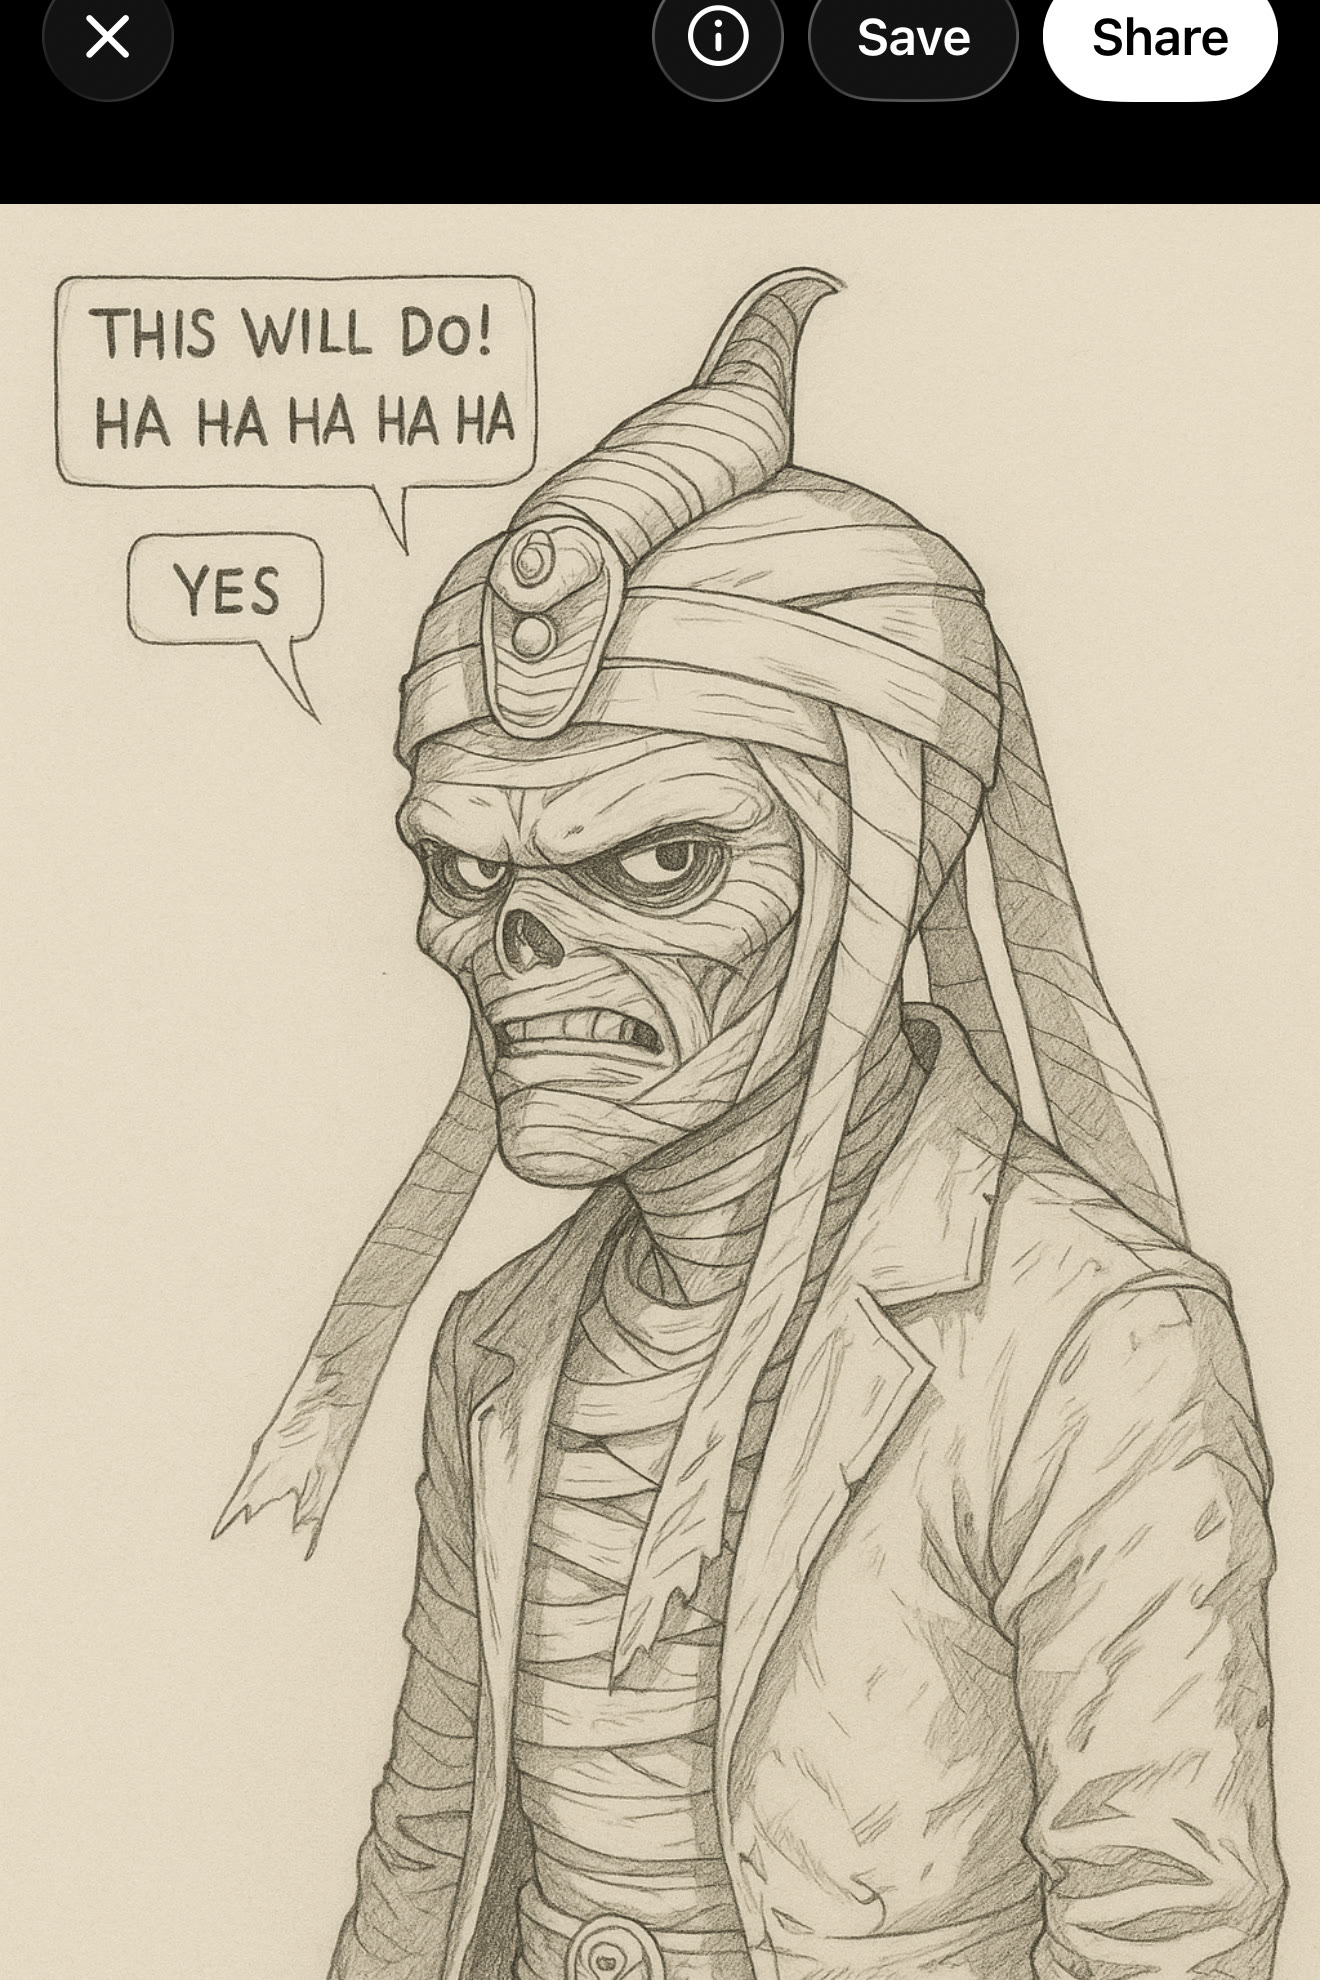
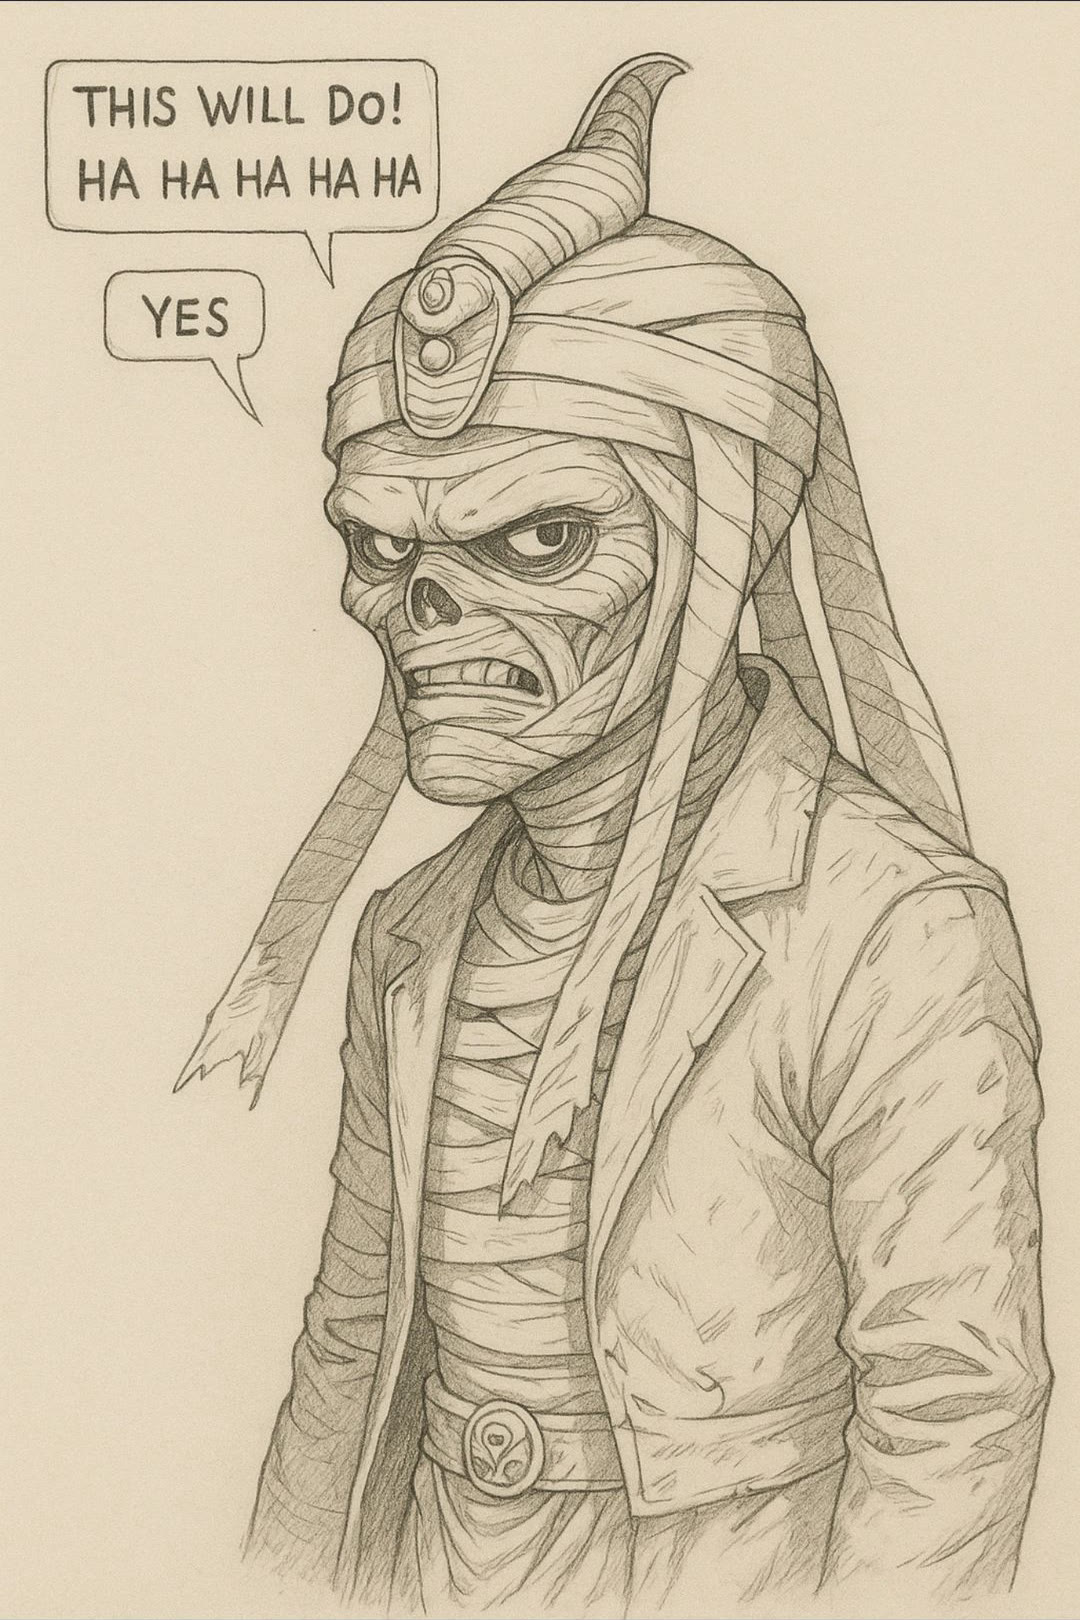
Crop This Will Do V to the same paper frame as the rest of the series.

diff --git a/art.html b/art.html
@@ -145,7 +145,7 @@
           </figure>
           <figure class="piece" data-full="assets/exhibit/this-will-do-v.jpg">
             <button type="button" class="piece-open" aria-label="Open This Will Do V, full screen">
-              <img src="assets/exhibit/this-will-do-v.jpg" width="1320" height="1980" alt="">
+              <img src="assets/exhibit/this-will-do-v.jpg" width="1080" height="1620" alt="">
             </button>
             <figcaption>V</figcaption>
           </figure>
